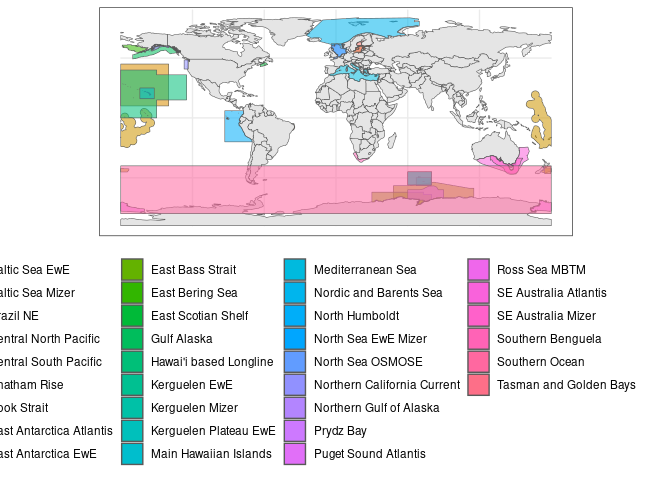
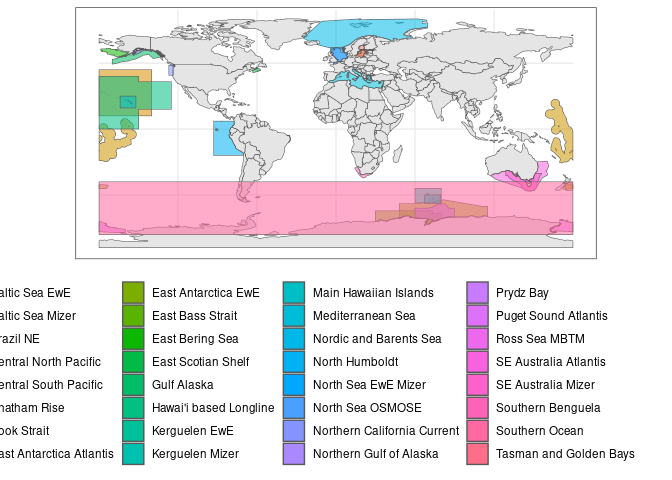
removing duplicate region

Changed region(s): [[0.0, 0.0312, 0.9375, 0.9688]]

diff --git a/Scripts/01_Merging_Regional_Shapefiles.md b/Scripts/01_Merging_Regional_Shapefiles.md
@@ -88,7 +88,7 @@ region_paths <- region_paths[!str_detect(region_paths, "SupportInfo")]
 
 ## Loading regions
 
-As of December 2023, there are 33 regional FishMIP models. We will use
+As of December 2023, there are 32 regional FishMIP models. We will use
 the boundaries for all these regions to create a single shapefile that
 includes all FishMIP regional models. Having a single file is useful to
 create maps showing all regional models easily. This file can also be
@@ -139,7 +139,7 @@ ggplot()+
 
 ![](01_Merging_Regional_Shapefiles_files/figure-gfm/map-1.png)<!-- -->
 
-The merged shapefile includes 33 different regions, which matches the
+The merged shapefile includes 32 different regions, which matches the
 number of regional FishMIP models. We can now save this merged file.
 
 ``` r
